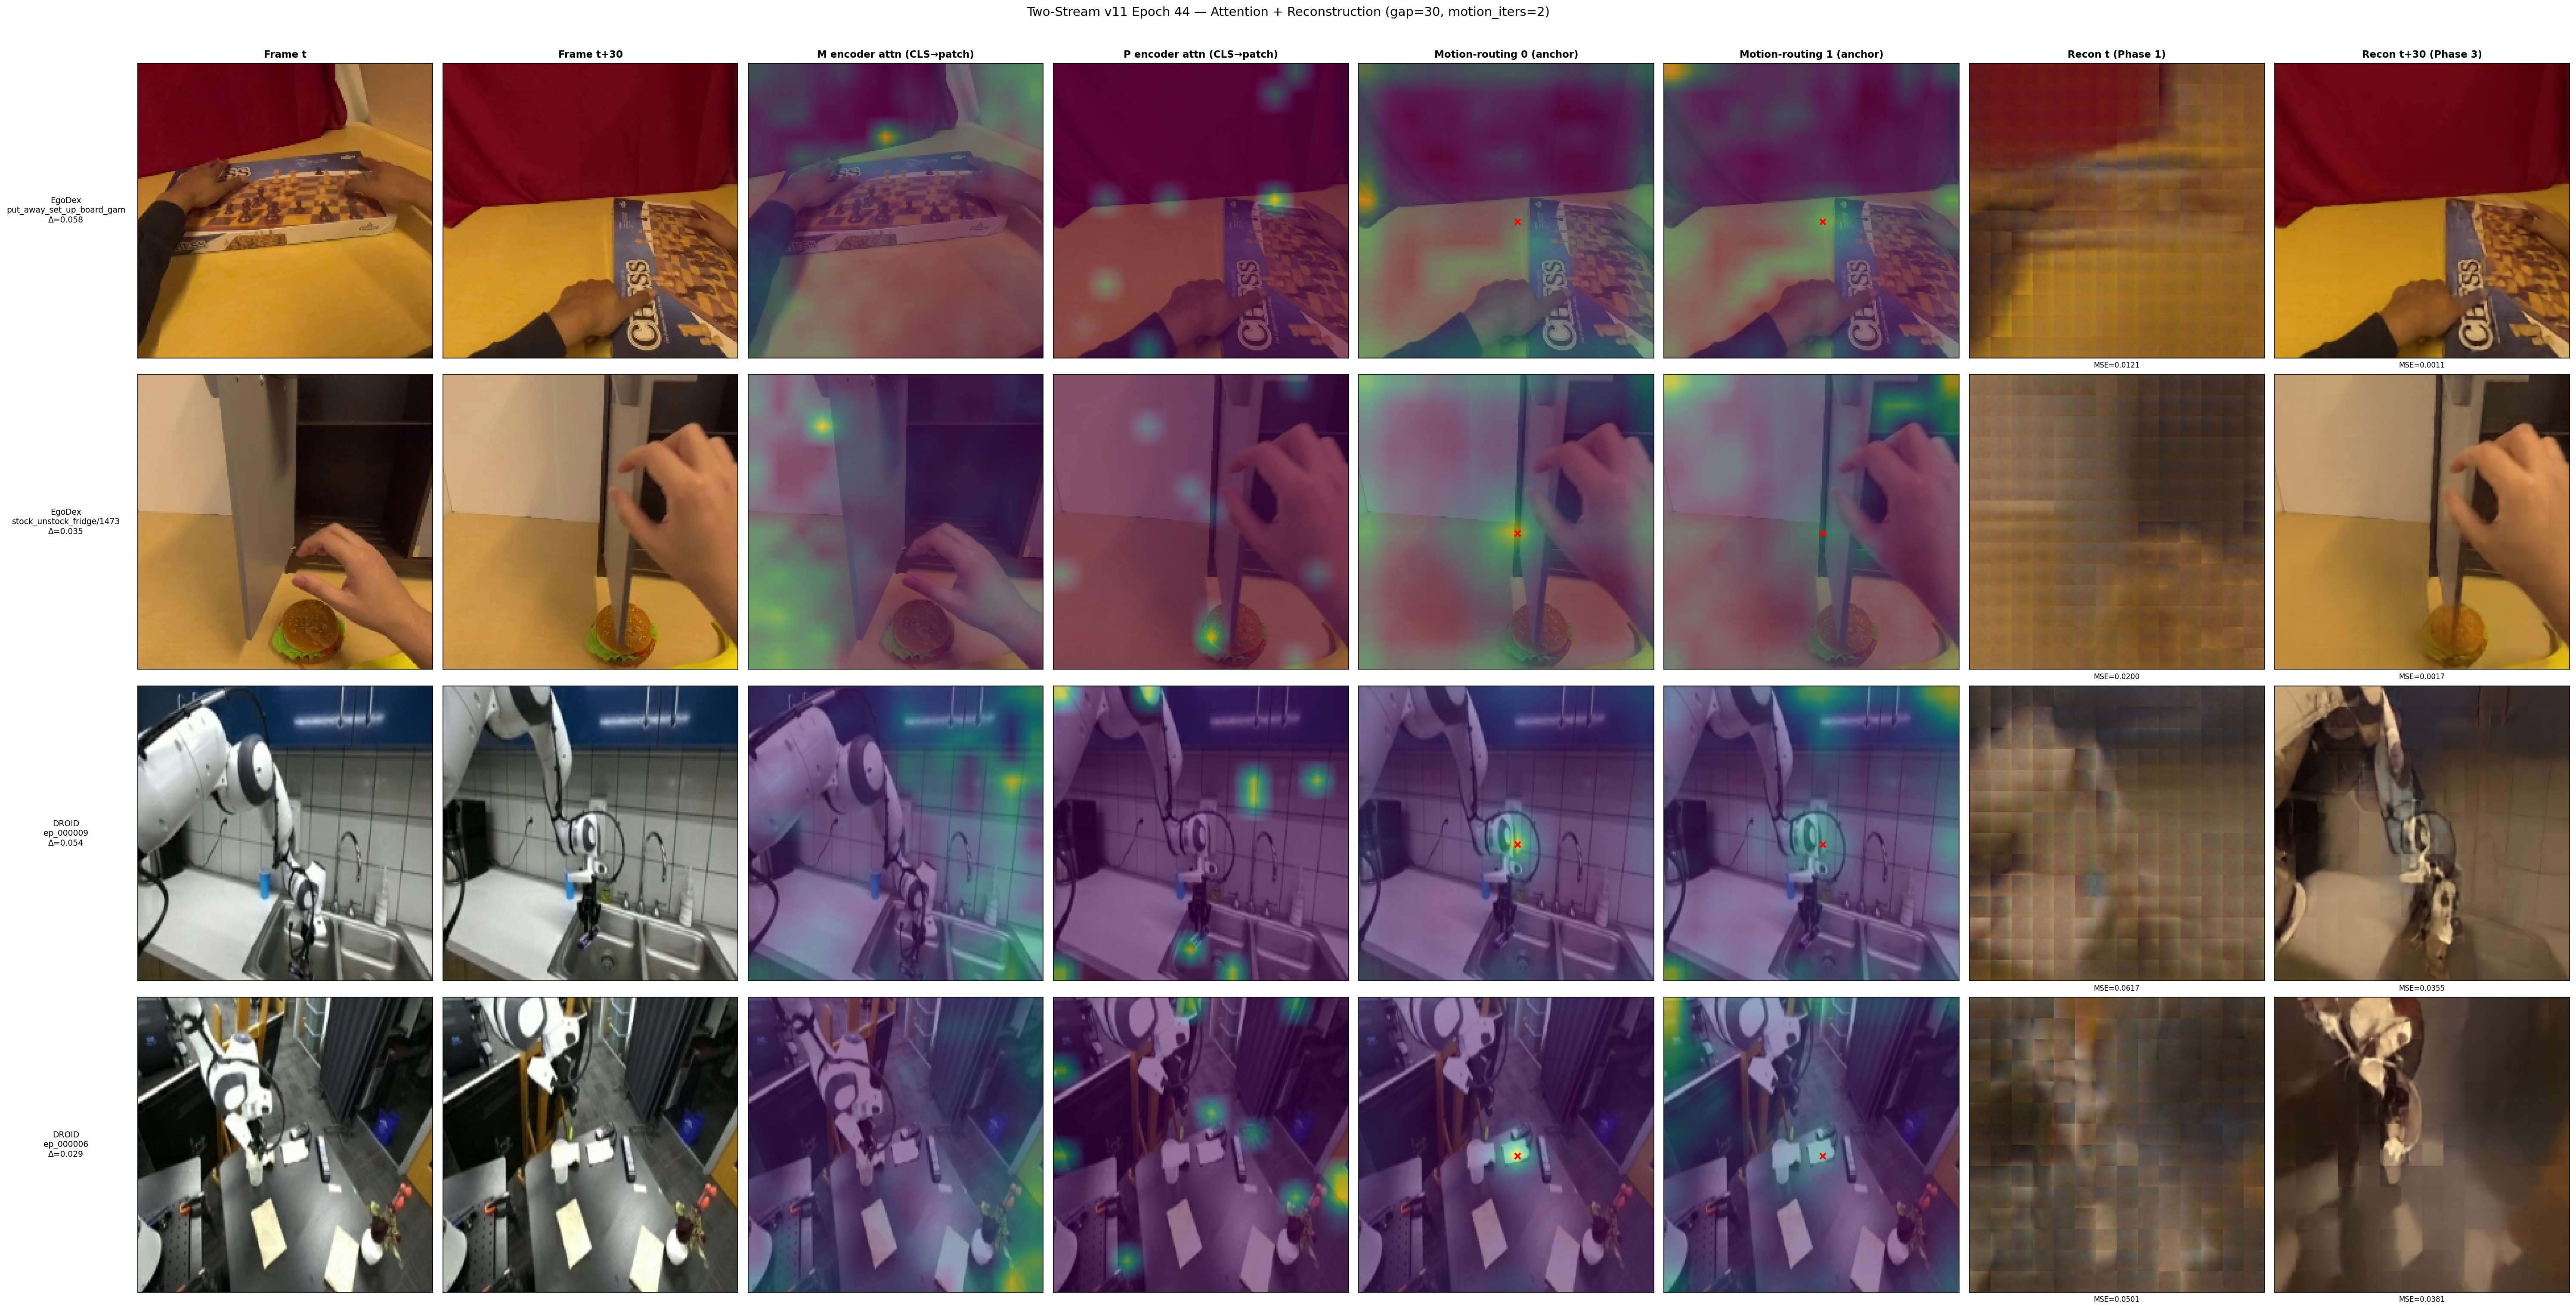
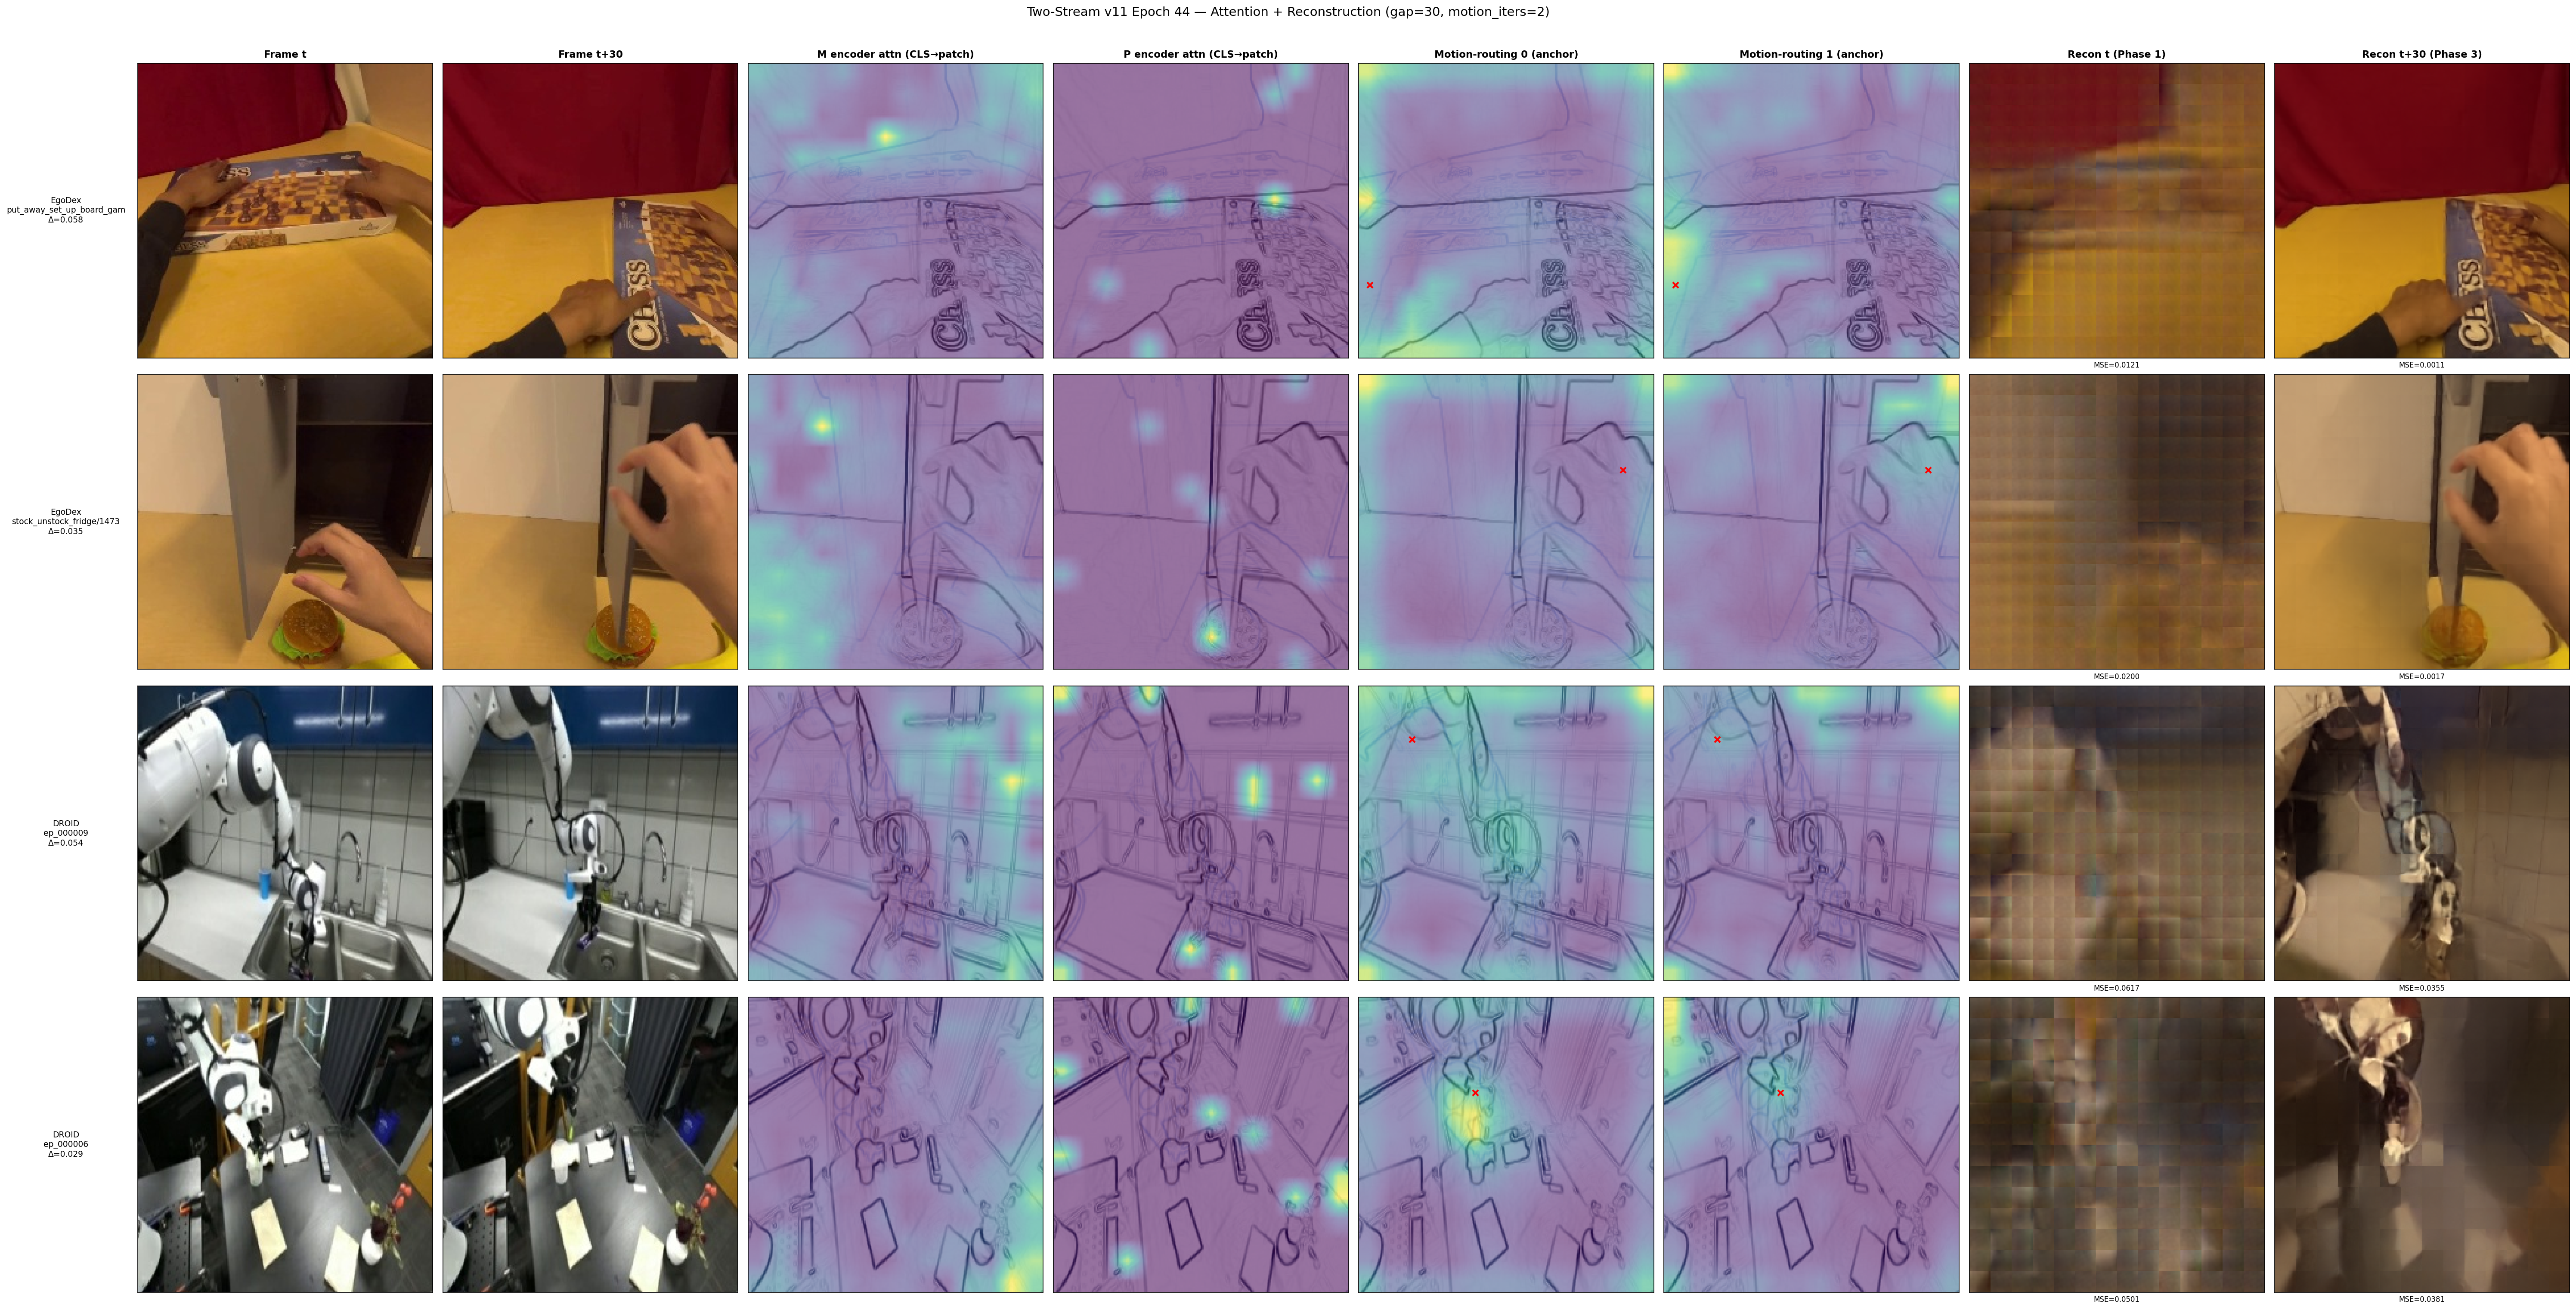
feat(paper-artifacts): roll-up summary CSV + v11 ep44 main figure 갱신
paper repo 측 활용 편의를 위해 두 실험에 대해 통합 CSV 추가 + v11 attention
main figure 자리(`attn_v11_ep44_nomask.png`)를 최신 viz 로 갱신.

Roll-up CSV (paper repo에서 pd.read_csv 한 줄로 모든 결과 import):

- paper_artifacts/libero_action_probing/all_summary.csv (60 rows)
  · 5 encoder × 3 suite × 4 gap 매트릭스 한 파일에
  · columns: encoder, task_suite, gap, gap_seconds, view, v11_mode,
    r2_aggregate, r2_dim0..r2_dim6, mse, cosine_sim, n_train/eval_pairs,
    best_epoch, elapsed_seconds, checkpoint, cell_dir
  · paper Tab 2 (controlled comparison) + Tab 3 (cross-encoder) 직접

- paper_artifacts/value_alignment/all_summary.csv (99 rows)
  · 5 encoder × 3 suite × 4 fractions + v11 mode ablation (b_only,
    d_prime_only)
  · columns: encoder, task_suite, view, v11_mode, fraction, n_valid,
    rho_mean, rho_std, rho_median, rho_min, rho_max, length_cutoff,
    n_total/kept, checkpoint, cell_dir
  · paper §Limitations Tab 또는 Fig (negative result framing) 직접

v11 attention main figure 갱신:

- docs/architecture/attn_v11_ep44_nomask.png: 기존 RGB-bg + center-anchor
  버전을 최신 Sobel dual-frame composite + motion-peak anchor 버전으로
  교체. paper Method/qualitative section main figure candidate 자리 그대로.
- docs/architecture/attn_v11_ep44_motion_{peak,dual}.png: development 단계
  중간 산출물이라 삭제 (final 버전이 _nomask로 흡수됨).
- paper_artifacts/architecture/README.md: ep44_nomask.png 항목 description
  보강 — Sobel + dual-frame + motion-peak 세 viz 개선 명시.

diff --git a/paper_artifacts/architecture/README.md b/paper_artifacts/architecture/README.md
@@ -32,7 +32,7 @@ generated artifacts (model output visualizations), not editable sources.
 
 | Source path | Purpose | Paper position |
 |-------------|---------|----------------|
-| `attn_v11_ep44_nomask.png` | Motion-routing attention at the champion epoch (ep44). What M-stream attends to in P-stream on full unmasked input. | Method or qualitative section, main figure candidate. |
+| `attn_v11_ep44_nomask.png` | Motion-routing attention at the champion epoch (ep44). 4 rows × 8 cols (col 0/1 raw frames, col 2-5 attention overlays, col 6/7 reconstructions). **Updated 2026-04-30**: Sobel-edge background with **dual-frame composite** (past frame in light blue ghost + current frame in sharp dark) for direct motion visualization, motion-peak anchor (auto-selects end-effector patch via frame-diff). | Method or qualitative section, main figure candidate. |
 | `attn_v11_ep{4,8,12,16,20,24,48,50}*_nomask.png` | Attention progression across training. | Supplementary, optional. |
 | `attn_v11_ep4.png`, `attn_v11_ep48.png`, `attn_v11_ep50.png` | Variants with masked-input attention (training-distribution view). Less common in paper figures than `_nomask` variants. | Supplementary. |
 | `rotation_v10_ep*`, `rotation_v6_baseline` | Rotation augmentation samples (data viz). | Supplementary, optional. |